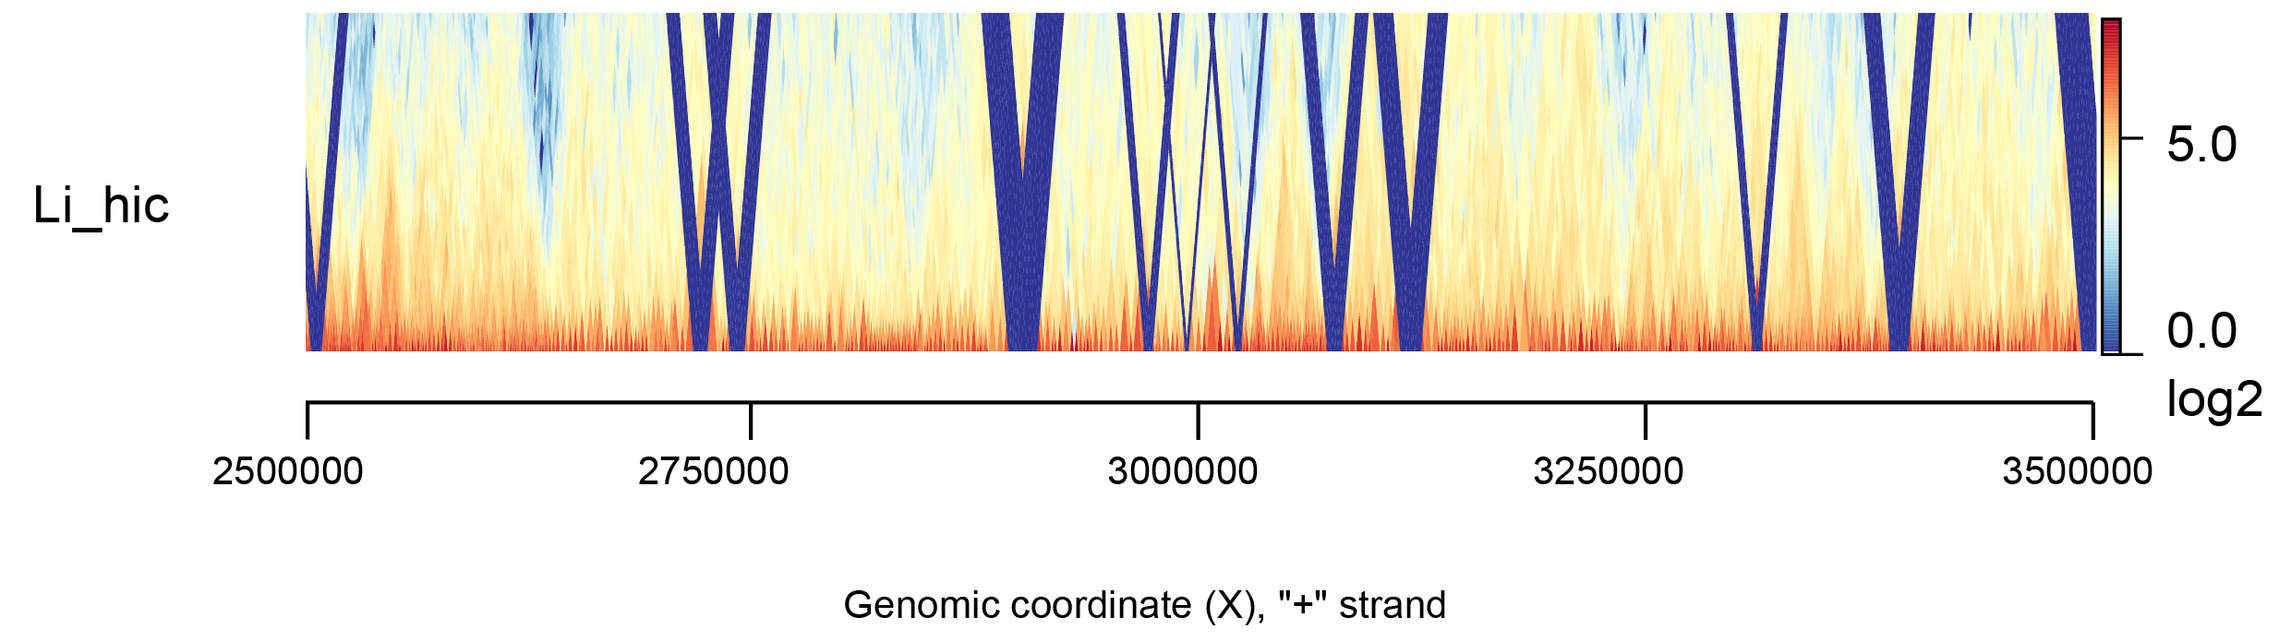
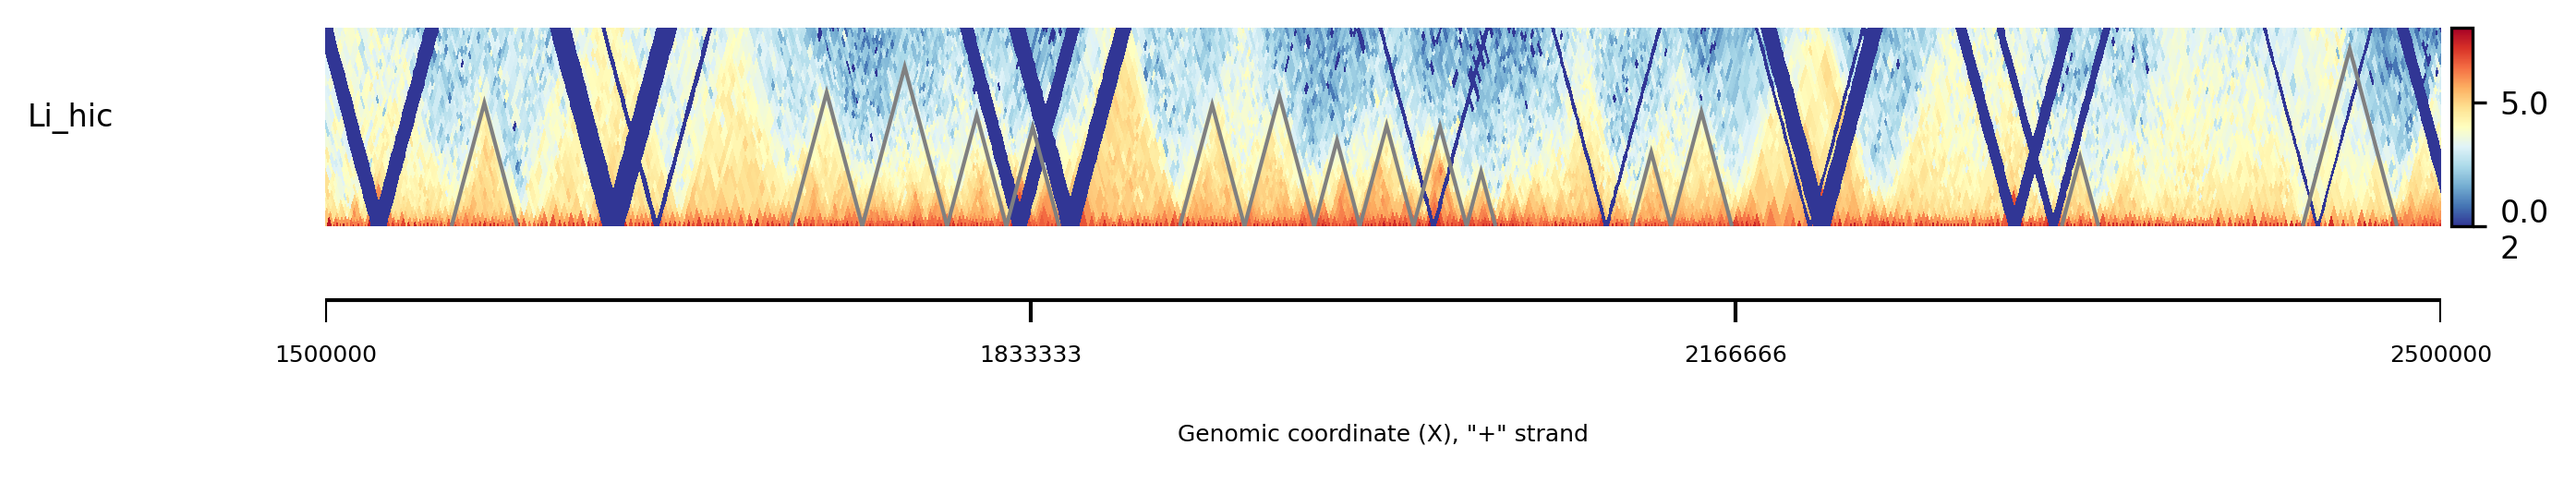
update hic_domain and doc

diff --git a/docs/command.md b/docs/command.md
@@ -23,7 +23,7 @@ trackplot \
   --interval example/interval_list.tsv \
   --customized-junction example/junctions.tsv
 ```
-
+---
 
 ## Command line arguments
 
@@ -313,6 +313,8 @@ Options:
   -h, --help                      Show this message and exit.
 ```
 
+---
+
 ## Detailed description
 
 ### Common options
@@ -355,6 +357,8 @@ Then the `--color-factor 2` means trackplot assign red color to LUAD and "#00000
 **Note:** `Cairo` backend may disable the heatmap rasterisation, so use as appropriate.
 
 The recommended combination of backend and image formats please check [matplotlib backend](https://matplotlib.org/stable/users/explain/backends.html)
+
+---
 
 ### Reference plot
 
@@ -437,6 +441,10 @@ example/PolyASite.chr1.atlas.clusters.2.0.GRCh38.96.simple.bed.gz   polyAS
 Then Sashimi receive the custom annotation file with parameter `--interval`, the additional genomic features will be visualized at the reference track.
 
 ![](imgs/cmd/interval.png)
+
+
+---
+
 
 ### Density plot
 
@@ -723,6 +731,9 @@ trackplot \
 ![](imgs/cmd/group_by_cell.png)
     
 
+---
+
+
 ### Line plot
 
 The line plot is simply another format of density plots.
@@ -779,6 +790,9 @@ trackplot \
 
 Please check the documentation in density plot.
 
+---
+
+
 ### Heatmap plot
 
 Heatmap plot takes bam or bigwig as input.
@@ -816,6 +830,9 @@ example/bws/0.bw    bw  bw  YlOrBr
 **Example: `--heatmap-vmin` and `--heatmap-vmax` to uniform color map **
 
 ![](imgs/cmd/ICE1_scale_v.png)
+
+
+---
 
 
 ### Read-by-read plot
@@ -907,6 +924,10 @@ trackplot \
 
 ![](imgs/cmd/igv_plot.3.png)
 
+
+---
+
+
 ### HiC heatmap
 
 #### HiC toy example 1
@@ -935,7 +956,7 @@ here is the plotting command line
 
 ```bash
 trackplot \
-  -e X:2500000-3500000:+ \
+  -e X:1500000-2500000:+ \
   --hic example/hic.tsv \
   -o example.hic.png \
   --dpi 300 \
@@ -992,6 +1013,10 @@ trackplot \
 
 here is the result. ![results](imgs/cmd/hic.2.png)
 
+
+---
+
+
 ## circRNA plot
 
 The linear and circRNA raw data were downloaded from [PRJNA541935](https://www.ncbi.nlm.nih.gov/bioproject/PRJNA541935).
@@ -1015,6 +1040,9 @@ trackplot \
   --link 925921-943808 
 ```
 ![](imgs/cmd/circRNA.png)
+
+
+---
 
 
 ## Motif plot
@@ -1042,6 +1070,9 @@ chr1  100 101 0.1 0.2 -0.3  -0.4
 Then, bgzipped && tabix indexed
 
 here is the result. ![result](imgs/cmd/motif.png)
+
+
+---
 
 
 ## Additional annotation

diff --git a/example/Article_figures/FigS3/B/README.md b/example/Article_figures/FigS3/B/README.md
@@ -22,6 +22,20 @@ bedtools sort -i Homo_sapiens.GRCh38.101.chr.gtf.gz | bgzip > Homo_sapiens.GRCh3
 tabix -p gff Homo_sapiens.GRCh38.101.chr.sorted.gtf.gz
 ```
 
+The cell metadata information,
+
+```bash
+#label(must be same to label in density file) cell_barcode  cell_type color_of_cell
+ATAC	AAACAGCCAAGGAATC-1	CD4_Naive	#4776a8
+ATAC	AAACAGCCAATGCGCT-1	CD4_Naive	#4776a8
+ATAC	AAACAGCCAGGATAAC-1	CD4_Naive	#4776a8
+ATAC	AAACATGCACTTGTTC-1	CD4_Naive	#4776a8
+ATAC	AAACCAACACTAAGAA-1	CD4_Naive	#4776a8
+ATAC	AAACCGCGTATGGTGC-1	CD4_Naive	#4776a8
+ATAC	AAACCGGCATTAGCCA-1	CD4_Naive	#4776a8
+ATAC	AAACGCGCACCTACTT-1	CD4_Naive	#4776a8
+```
+
 
 The command line for generating the plot,
 

diff --git a/example/Article_figures/FigS2/B/README.md b/example/Article_figures/FigS2/B/README.md
@@ -4,6 +4,14 @@
 Data was download from [Gao et al. Genome Biology,2021.](https://genomebiology.biomedcentral.com/articles/10.1186/s13059-020-02241-7),
 and we used [nanom6A](https://github.com/gaoyubang/nanom6A) and [nanopolish](https://github.com/nanoporetech/pipeline-polya-ng) for calling m6A and length of poly(A)  
 
+Prepare reference file
+
+```bash
+aria2c -c https://ftp.ensembl.org/pub/release-87/gtf/homo_sapiens/Homo_sapiens.GRCh37.87.chr.gtf.gz
+bedtools sort -i Homo_sapiens.GRCh37.87.chr.gtf.gz | bgzip > Homo_sapiens.GRCh37.87.chr.sorted.gtf.gz
+tabix -p gff Homo_sapiens.GRCh37.87.chr.sorted.gtf.gz
+```
+
 
 ```bash
 python ../../../../main.py \

diff --git a/docs/index.md b/docs/index.md
@@ -1,6 +1,6 @@
 # Welcome to trackplot
 
-[trackplot](https://github.com/ygidtu/trackplot) is a feature-rich sashimi plot framework written in pure Python code.
+[trackplot](https://github.com/ygidtu/trackplot) is a feature-rich sashimi plot framework written in pure Python.
 
 ![](imgs/diagram.png)
 
